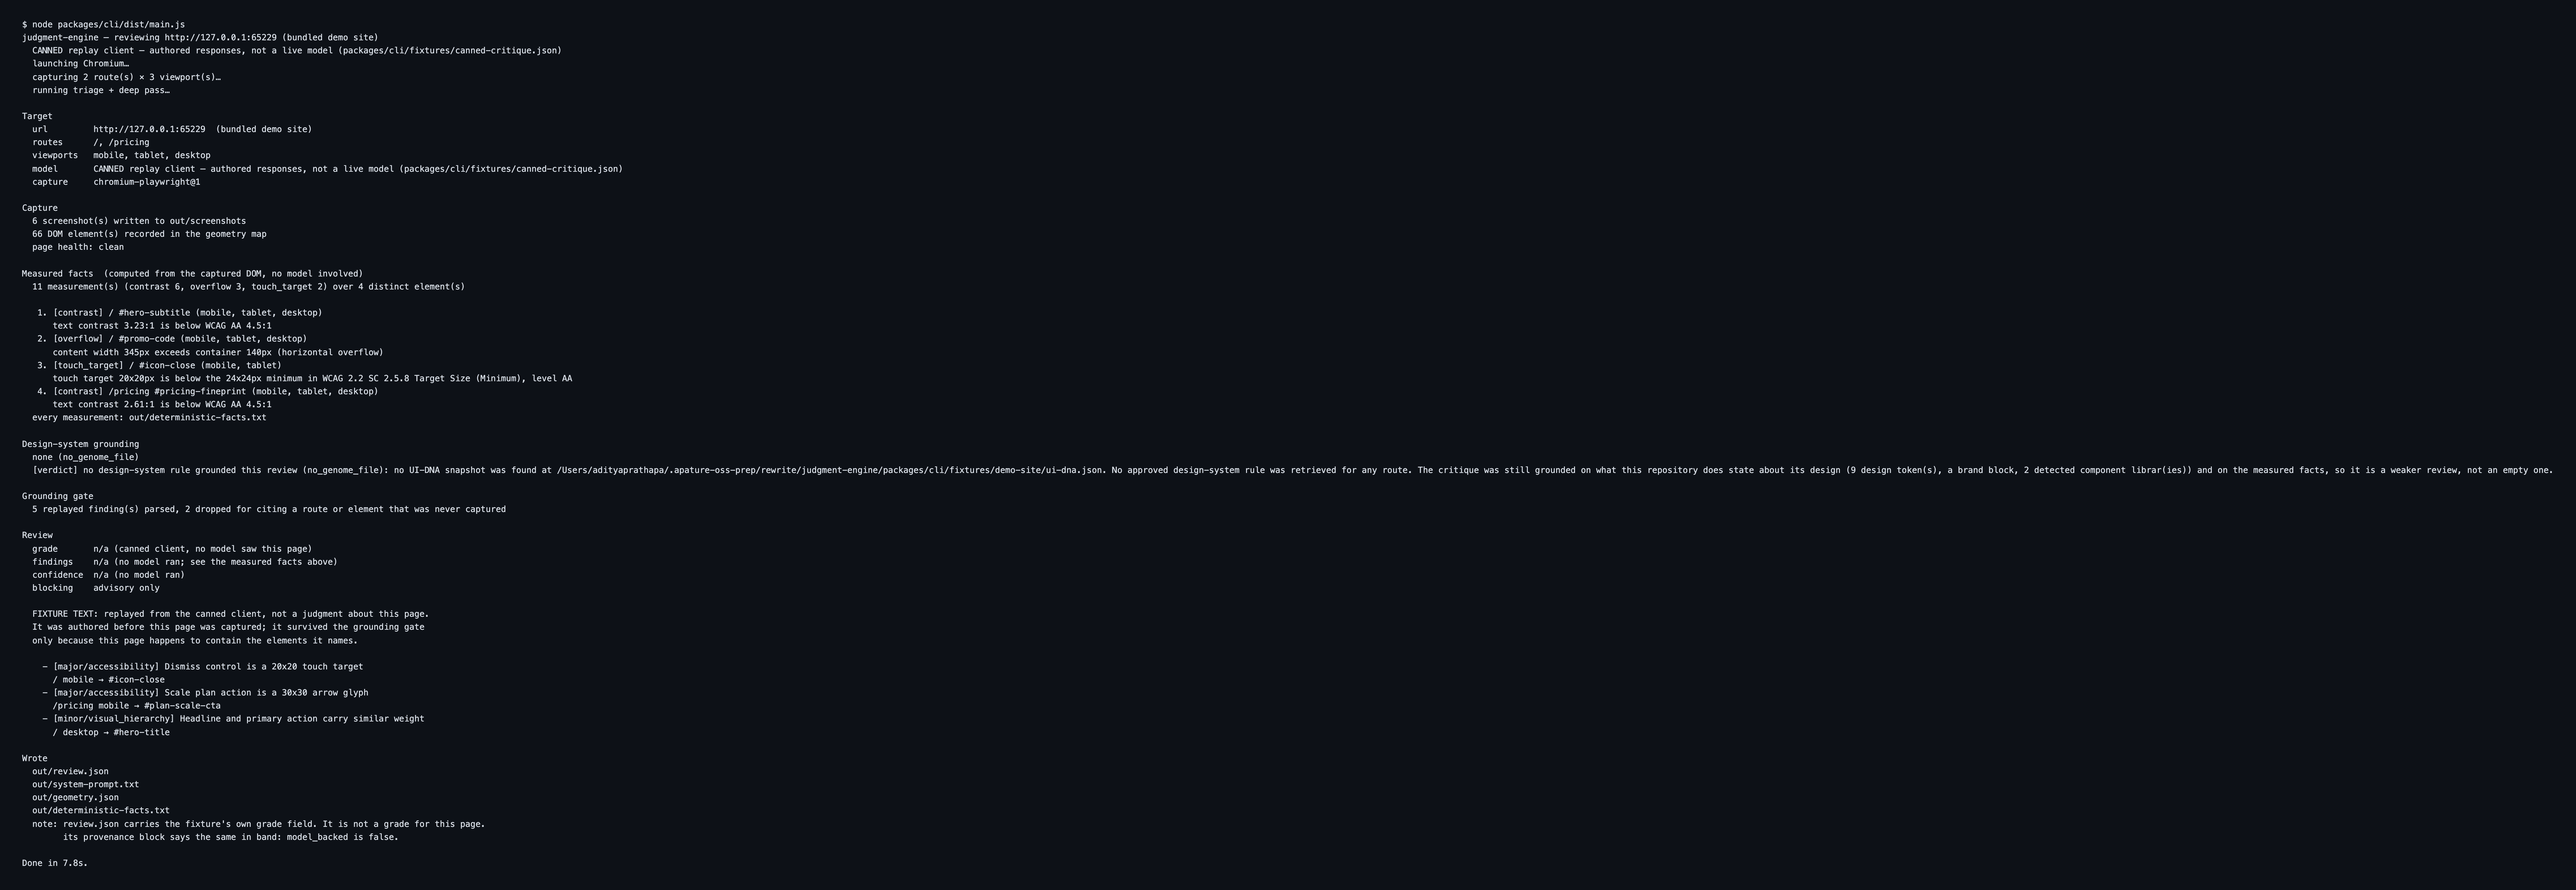
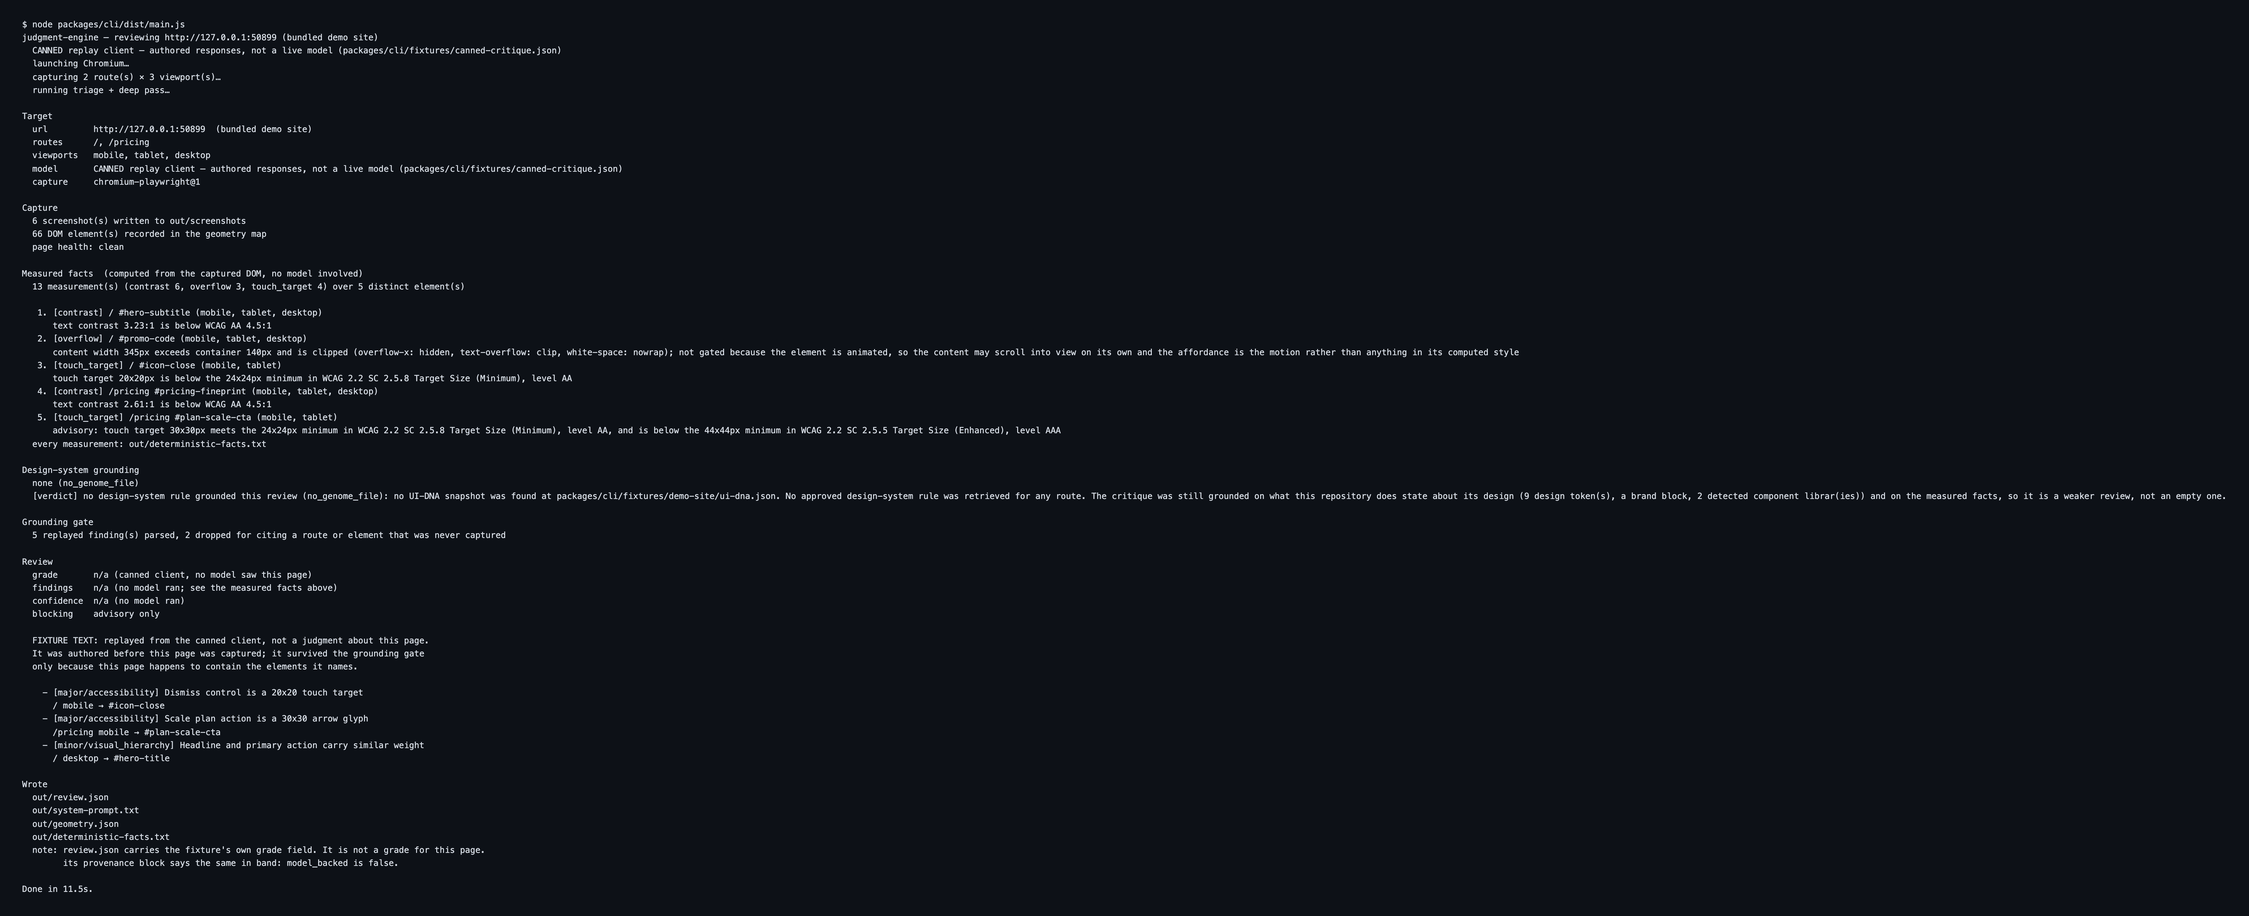
Publish the path inside the repository, not the one on the machine
`docs/report.txt` is captured stdout and `docs/report.png` is typeset from it, so
the absolute path in a grounding message was on this project's own README:
`/Users/<name>/...`, naming an account and a directory layout.

These sentences are published. They reach a pull request comment on somebody
else's repository, where a checkout directory on a runner means nothing to the
reader, and at worst they publish whoever ran the review. The message now names
the path inside the repository being reviewed, which is the only part a reader
can act on.

Regenerating from a real run also caught that the committed capture was stale: it
predates the animated-clip verdict and the AA-to-AAA touch-target advisory, so
the README image had been showing output the code stopped producing. It is 13
measurements over 5 distinct elements now, and the README's console blocks and
prose counts move with it.

Changed region(s): [[0.0, 0.0, 0.9685, 0.8388], [0.0, 0.8388, 0.1874, 0.9631], [0.1562, 0.1864, 0.2187, 0.2175]]

diff --git a/packages/cli/src/genome-source.ts b/packages/cli/src/genome-source.ts
@@ -1,5 +1,5 @@
 import { readFile } from "node:fs/promises";
-import { join } from "node:path";
+import { join, relative } from "node:path";
 import type { GenomeRule } from "@engine/context";
 import type { LocalGenome } from "./grounding.js";
 
@@ -109,6 +109,13 @@ function toGenome(document: unknown, source: string): { version: string; rules: 
  */
 export async function loadRepoGenome(directory: string): Promise<LocalGenome> {
   const path = join(directory, UI_DNA_FILENAME);
+  // WHAT A READER IS TOLD IS THE PATH INSIDE THEIR REPOSITORY, never the one on
+  // the machine that ran the review. These sentences are published: they reach a
+  // pull request comment, and they are typeset into this project's own README
+  // image. An absolute path there is noise at best, since the checkout directory
+  // on a runner means nothing to the person reading the comment, and at worst it
+  // publishes the directory layout and the account name of whoever ran it.
+  const shown = relative(process.cwd(), path) || path;
   let raw: string;
   try {
     raw = await readFile(path, "utf8");
@@ -116,7 +123,7 @@ export async function loadRepoGenome(directory: string): Promise<LocalGenome> {
     return {
       available: false,
       reason: "no_genome_file",
-      detail: `no UI-DNA snapshot was found at ${path}`,
+      detail: `no UI-DNA snapshot was found at ${shown}`,
     };
   }
 
@@ -127,7 +134,7 @@ export async function loadRepoGenome(directory: string): Promise<LocalGenome> {
     return {
       available: false,
       reason: "genome_unreadable",
-      detail: `the UI-DNA snapshot at ${path} is not valid JSON (${
+      detail: `the UI-DNA snapshot at ${shown} is not valid JSON (${
         error instanceof Error ? error.message : String(error)
       }), so it was not used`,
     };

diff --git a/README.md b/README.md
@@ -88,7 +88,7 @@ pieces rather than the demo.
 
 That is a real run, unedited stdout, captured to [`docs/report.txt`](docs/report.txt) and typeset by
 [`scripts/render-report-image.mjs`](scripts/render-report-image.mjs). It shows both halves at once.
-**11 measurements** taken from the captured DOM, which is what you get with no credentials at all,
+**13 measurements** taken from the captured DOM, which is what you get with no credentials at all,
 and **no grade**, because no model was configured and the report will not invent one.
 
 ### The split, precisely
@@ -285,7 +285,7 @@ Capture
   page health: clean
 
 Measured facts  (computed from the captured DOM, no model involved)
-  11 measurement(s) (contrast 6, overflow 3, touch_target 2) over 4 distinct element(s)
+  13 measurement(s) (contrast 6, overflow 3, touch_target 4) over 5 distinct element(s)
 
    1. [contrast] / #hero-subtitle (mobile, tablet, desktop)
       text contrast 3.23:1 is below WCAG AA 4.5:1
@@ -295,6 +295,10 @@ Measured facts  (computed from the captured DOM, no model involved)
       touch target 20x20px is below the 24x24px minimum in WCAG 2.2 SC 2.5.8 Target Size (Minimum), level AA
    4. [contrast] /pricing #pricing-fineprint (mobile, tablet, desktop)
       text contrast 2.61:1 is below WCAG AA 4.5:1
+   5. [touch_target] /pricing #plan-scale-cta (mobile, tablet)
+      advisory: touch target 30x30px meets the 24x24px minimum in WCAG 2.2 SC 2.5.8 Target Size
+      (Minimum), level AA, and is below the 44x44px minimum in WCAG 2.2 SC 2.5.5 Target Size
+      (Enhanced), level AAA
   every measurement: out/deterministic-facts.txt
 
 Grounding gate
@@ -327,7 +331,7 @@ Wrote
 Done in 8.0s.
 ```
 
-**Success looks like this:** **11 measurements** over 4 distinct elements, **2 dropped** by the
+**Success looks like this:** **13 measurements** over 5 distinct elements, **2 dropped** by the
 grounding gate, six real PNGs under `out/screenshots/`, and **no grade**. Open
 `out/screenshots/index/desktop.png`, which is a photograph of the page those measurements came from.
 
@@ -397,9 +401,9 @@ critique with no network call, useful for exercising the pipeline's shape in you
   It re-screenshots each already-prepared page rather than re-running the whole lifecycle, so it is
   cheap (7.6s to 8.0s on the demo site). If any page differs the line says `FAILED` and `page health`
   reports the capture as unstable.
-- **11 measurements.** Measured, not asserted, and the reason an offline run is worth anything at
+- **13 measurements.** Measured, not asserted, and the reason an offline run is worth anything at
   all. The report prints one line per distinct defect with the viewports it was measured at, which
-  is why 11 measurements read as 4 entries: the same contrast ratio at mobile, tablet and desktop is
+  is why 13 measurements read as 5 entries: the same contrast ratio at mobile, tablet and desktop is
   one thing to fix. The dismiss control appears at two viewports rather than three because a
   target-size criterion is about a finger, and the desktop capture is driven with a mouse. Every
   measurement, one per line, is in `out/deterministic-facts.txt`:
